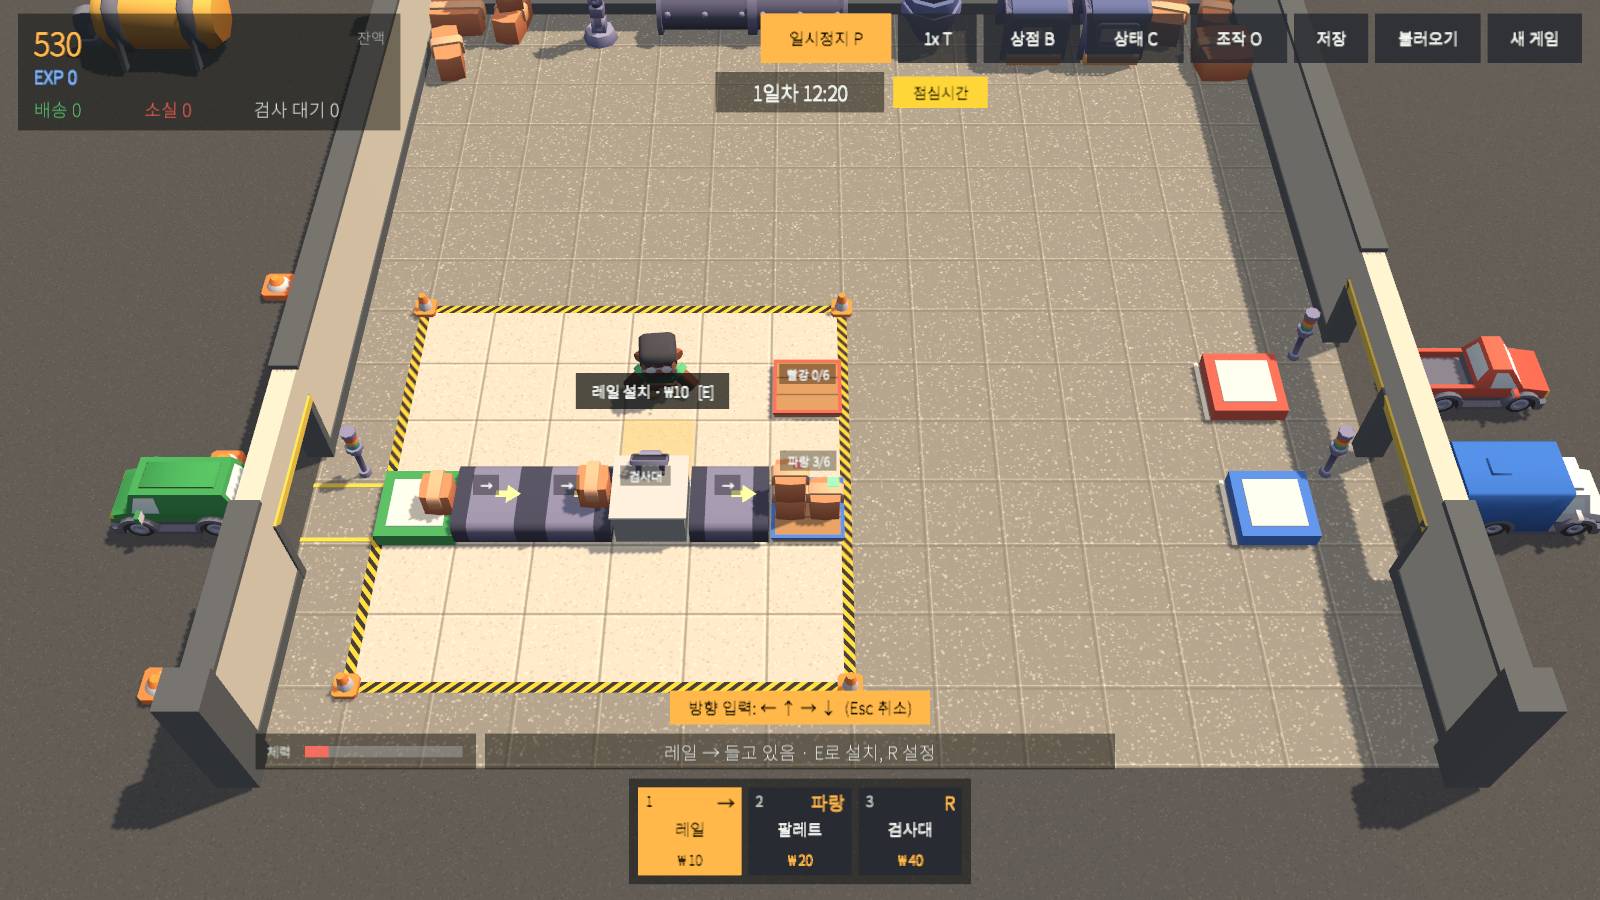
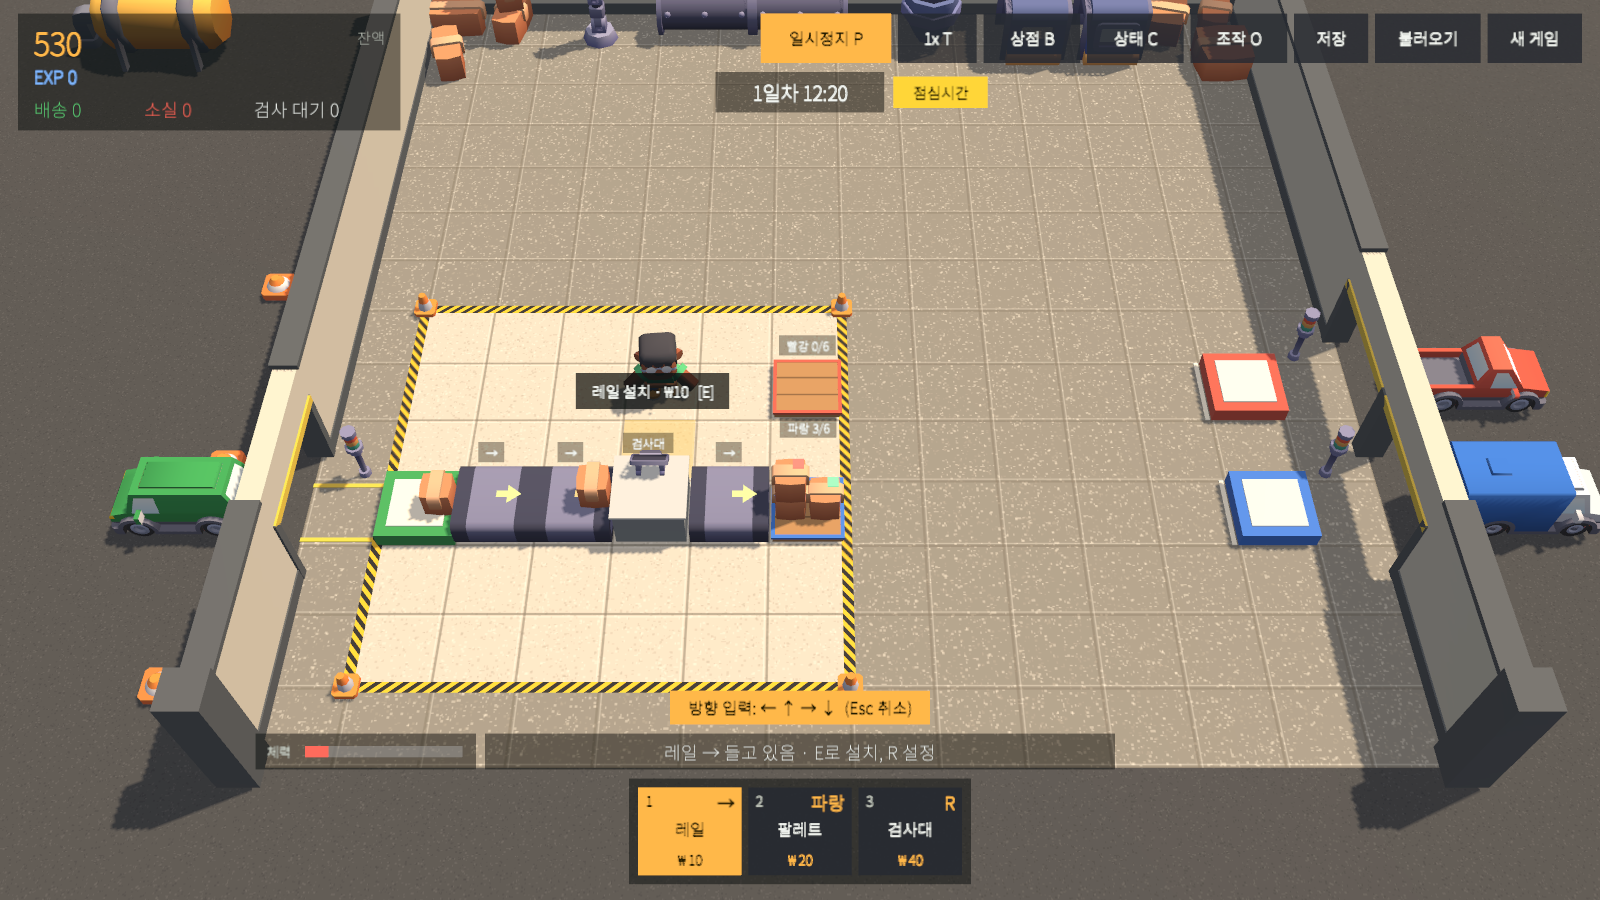
fix(game): place status bars behind the tile (+z 0.35) so splitter chevrons stay visible

Changed region(s): [[0.3438, 0.4667, 0.5312, 0.56], [0.4688, 0.3733, 0.5312, 0.4356], [0.2812, 0.4978, 0.3125, 0.56]]

diff --git a/Assets/Scripts/Game/StatusBars.cs b/Assets/Scripts/Game/StatusBars.cs
@@ -7,15 +7,15 @@ namespace ParcelFactory.Game
 {
     /// <summary>
     /// 미니 상태바(스펙 11.8): 설치된 부품마다 작은 반투명 검은 알약(11px)을 HUD 캔버스에 띄운다.
-    /// 위치는 매 프레임 PackageViews.TopHeight(칸) + 0.45, 카메라 쪽으로 0.15를 화면에 투영한다(금액 팝업과 같은 방식).
+    /// 위치는 매 프레임 PackageViews.TopHeight(칸) + 0.45, 카메라 반대쪽(+z)으로 0.35를 화면에 투영한다(금액 팝업과 같은 방식).
     /// 부품 집합은 CellChanged 때 다시 모으고, 문구는 매 프레임 계산하되 바뀌었을 때만 대입한다.
     /// 작업자가 바라보는 부품은 밝은 알약 + 강조색 글자에 " · R 설정"이 붙는다.
     /// </summary>
     public sealed class StatusBars : MonoBehaviour
     {
         public const int FontSize = 11;
-        /// <summary>칸 윗면 위로 Lift, 카메라 쪽(−z)으로 TowardCamera만큼 옮겨 띄운다. 분배기 허브의 화살표를 가리지 않게.</summary>
-        public const float Lift = 0.45f, TowardCamera = 0.15f, Height = 18f, PadX = 12f;
+        /// <summary>칸 윗면 위로 Lift, 카메라 반대쪽(+z, 북)으로 AwayFromCamera만큼 옮겨 띄운다. 화면에서는 칸의 먼 가장자리 위에 놓여 분배기 허브의 화살표를 가리지 않는다.</summary>
+        public const float Lift = 0.45f, AwayFromCamera = 0.35f, Height = 18f, PadX = 12f;
         public const string FocusSuffix = " · R 설정";
         private const string DimOpen = "<color=#8E959C>", DimClose = "</color>";
         private static readonly Color PillBg = new Color(0f, 0f, 0f, 0.6f);
@@ -95,7 +95,7 @@ namespace ParcelFactory.Game
                     b.Rect.sizeDelta = new Vector2(b.Label.preferredWidth + PadX, Height);
                     if (focus) b.Rect.SetAsLastSibling(); // 겹치면 바라보는 것이 위
                 }
-                if (boot.Hud.TryWorldToCanvas(Grid3D.Tile(b.X, b.Y) + new Vector3(0f, PackageViews.TopHeight(c) + Lift, -TowardCamera), out var pos))
+                if (boot.Hud.TryWorldToCanvas(Grid3D.Tile(b.X, b.Y) + new Vector3(0f, PackageViews.TopHeight(c) + Lift, AwayFromCamera), out var pos))
                     b.Rect.anchoredPosition = pos;
             }
         }
